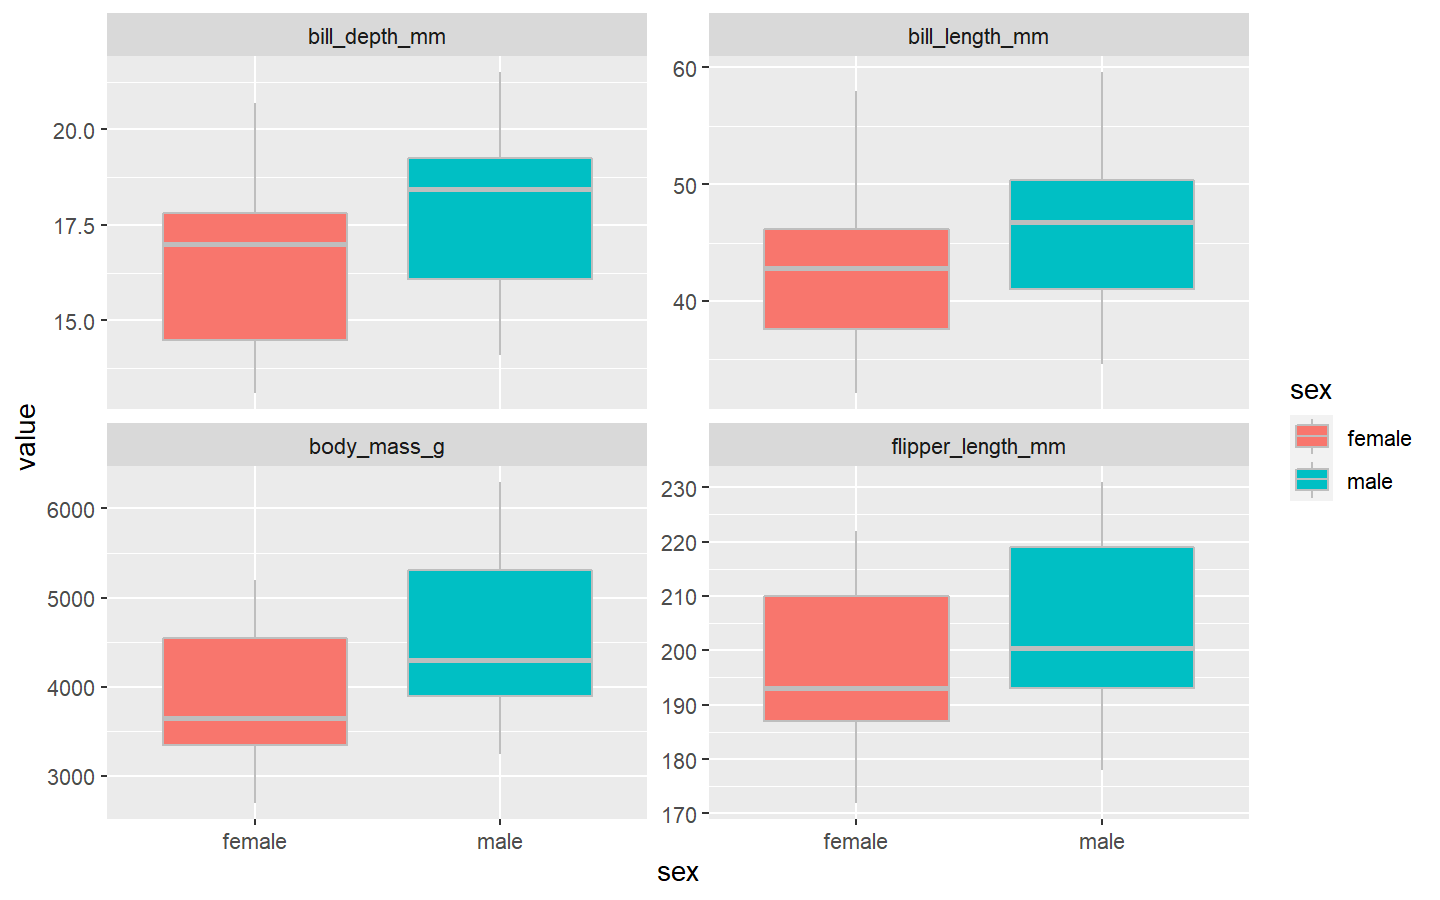
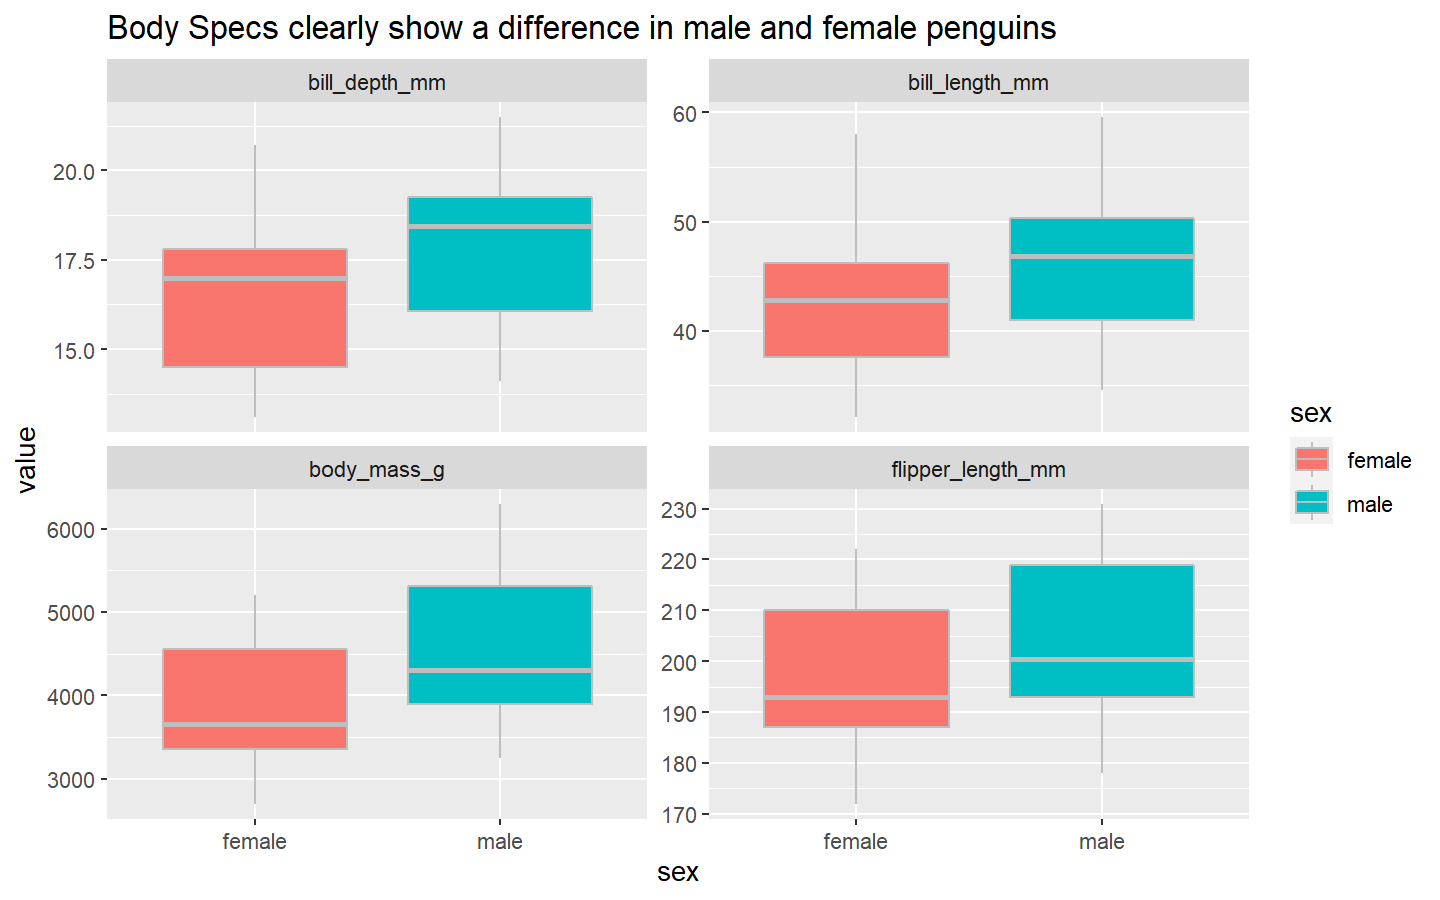
updated index

diff --git a/index.md b/index.md
@@ -17,6 +17,8 @@ ttfile <- tidytuesdayR::tt_load('2020-07-28')
 penguins <- ttfile$penguins
 ```
 
+### let’s explore the data to see if we can find some good features to classify male and female penguins
+
 ``` r
 penguins %>% 
     drop_na() %>%
@@ -24,7 +26,19 @@ penguins %>%
     ggplot(aes(x= value, y = sex, fill = sex)) +
     geom_boxplot(color = "gray") +
     facet_wrap(~spec, scales = "free_y") +
-    coord_flip()
+    coord_flip() +
+    labs(title = "Body Specs clearly show a difference in male and female penguins")
 ```
 
 ![](index_files/figure-gfm/unnamed-chunk-2-1.png)<!-- -->
+
+``` r
+penguins %>% 
+    filter(!is.na(sex)) %>% 
+    ggplot(aes(flipper_length_mm, bill_length_mm, color = sex, size = body_mass_g)) +
+    geom_point(alpha = 0.5) +
+    facet_wrap(~species) +
+    labs(title = "Flipper and bill length can be used to differentiate between male and female penguins")
+```
+
+![](index_files/figure-gfm/unnamed-chunk-3-1.png)<!-- -->
